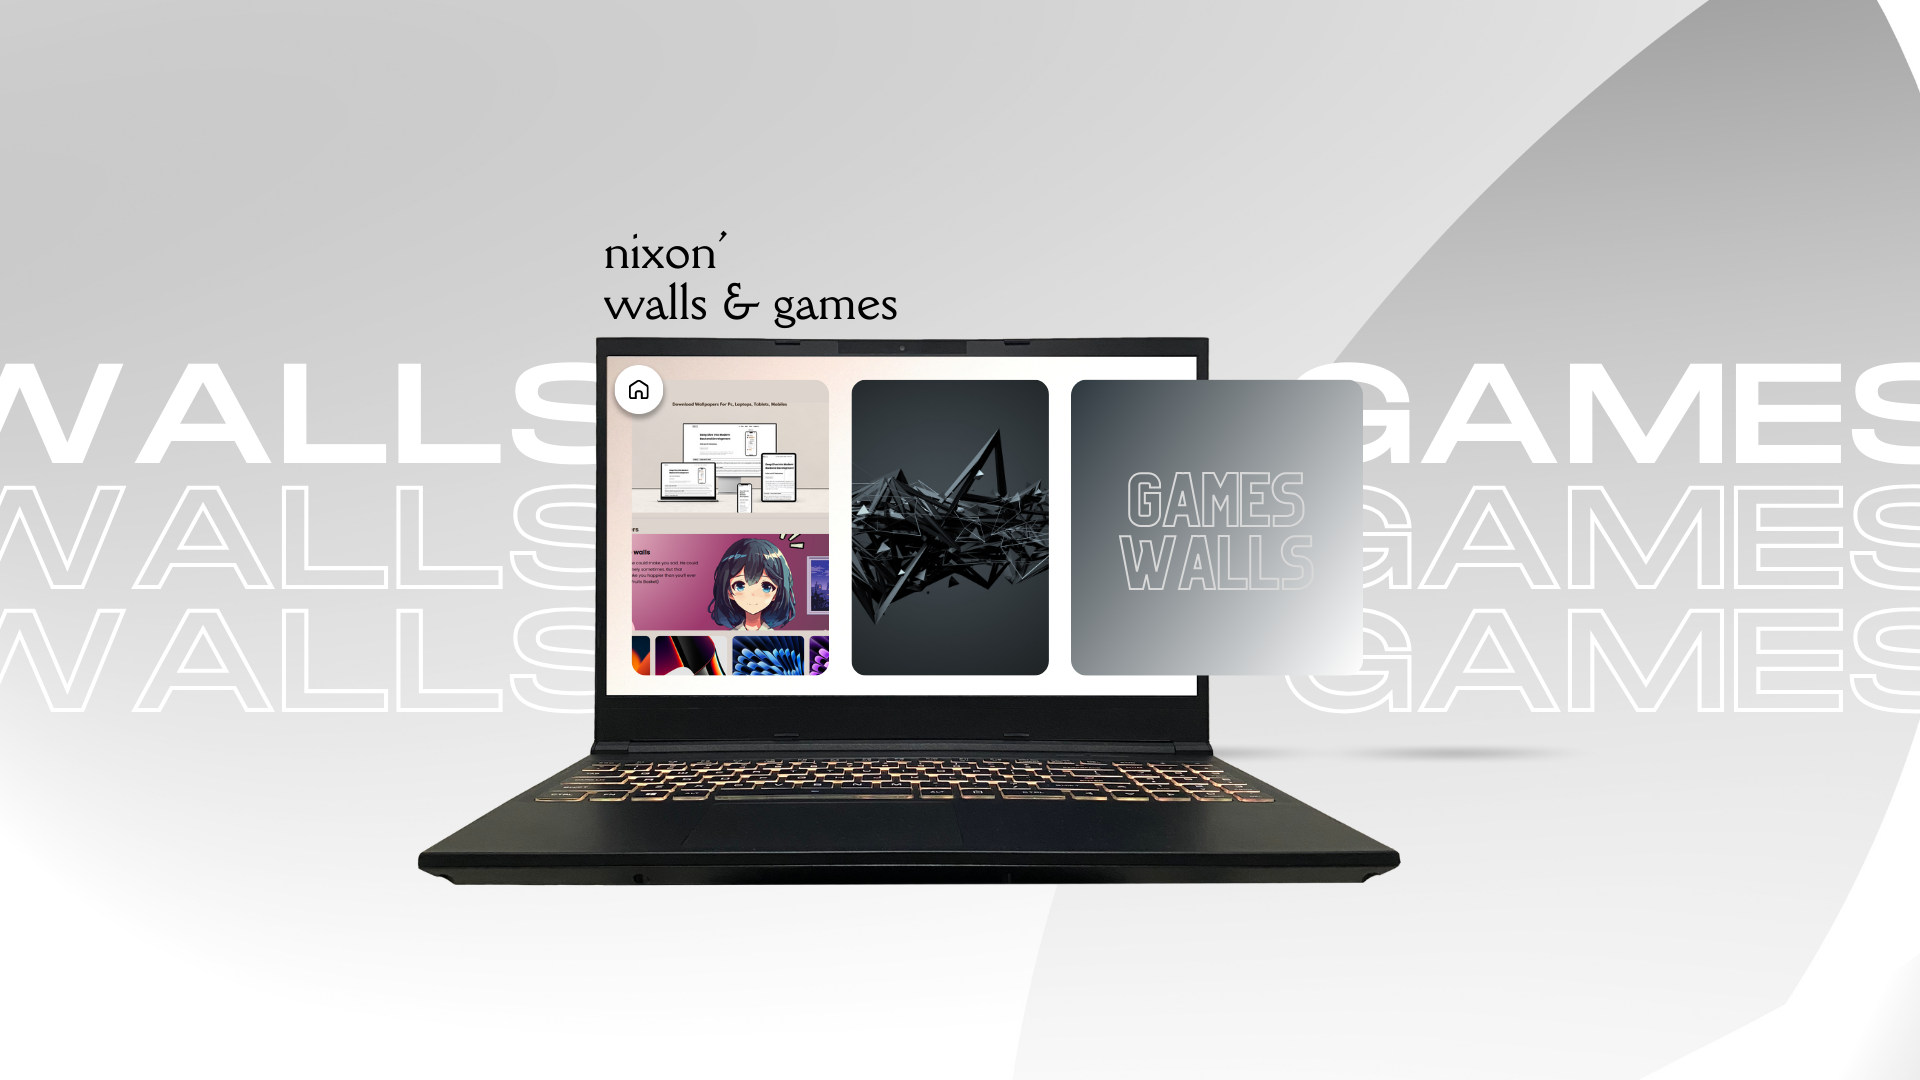
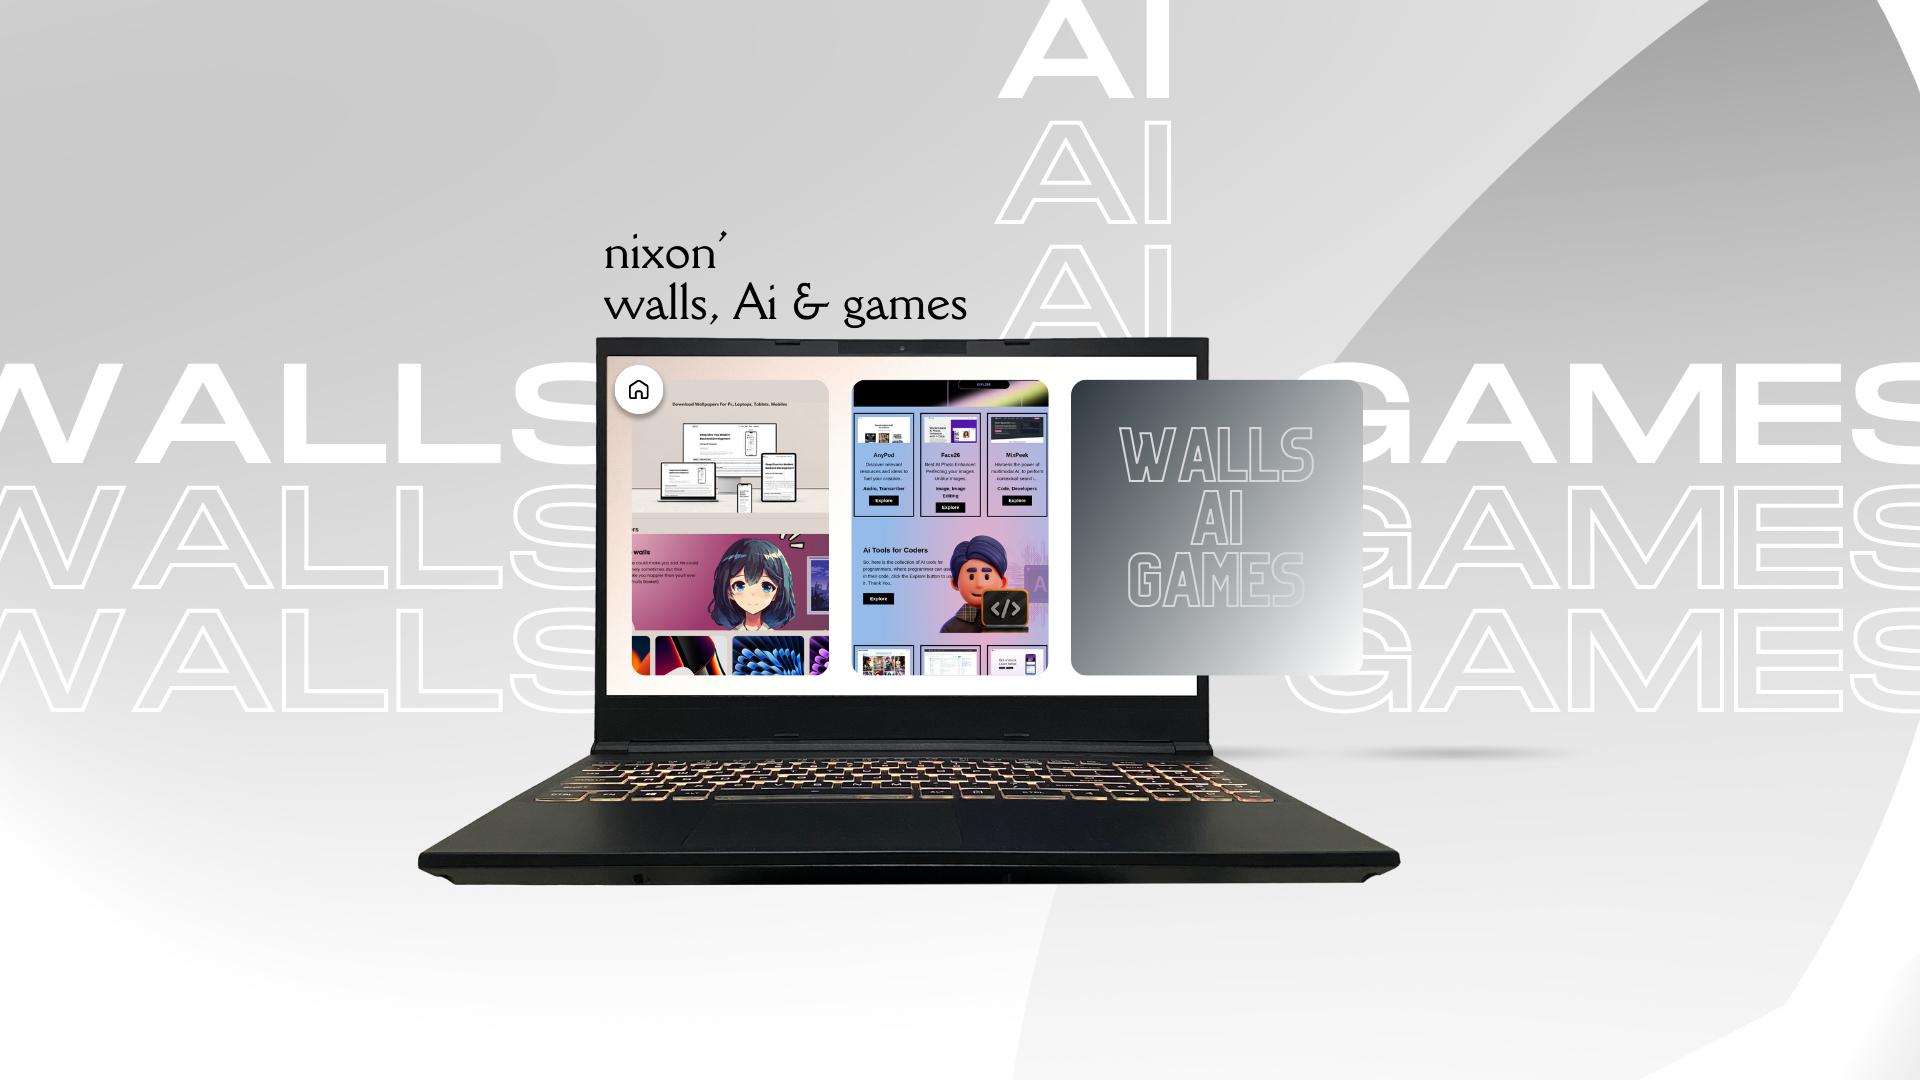
adding nixon ai

diff --git a/nixon-ai.html b/nixon-ai.html
@@ -5,7 +5,7 @@
     <meta name="viewport" content="width=device-width, initial-scale=1.0">
     <title>nixon Ai</title>
     <link rel="stylesheet" href="https://cdn.jsdelivr.net/npm/bootstrap-icons@1.8.3/font/bootstrap-icons.css">
-    <link rel="stylesheet" href="nixon-ai.css">
+    <link rel="stylesheet" href="nixon-ai4coders.css">
 </head>
 <body>
     <div class="container">
@@ -27,8 +27,8 @@
         <!-- Home cards 1 -->
         <section class="home-cards">
           <div class="box1">
-            <img src="Screenshot from 2023-09-16 11-31-14.png" alt="">
-            <h3>Any Pod</h3>
+            <img src="https://d1muf25xaso8hp.cloudfront.net/https%3A%2F%2F9983eb559ade06c789b2f13398696d74.cdn.bubble.io%2Ff1684149967898x909052529045196300%2FAnyPod%2520img.jpg?w=768&h=384&auto=compress&dpr=1&fit=max" alt="">
+            <h3>AnyPod</h3>
             <p>
                 Discover relevant resources and ideas to fuel your creative... 
             </p>
@@ -38,35 +38,35 @@
           </div>
 
           <div class="box2">
-            <img src="https://i.ibb.co/KjGFHVJ/card2.png" alt="" />
+            <img src="https://d1muf25xaso8hp.cloudfront.net/https%3A%2F%2F9983eb559ade06c789b2f13398696d74.cdn.bubble.io%2Ff1684139177468x115268665824216130%2FFace26%2520img.jpg?w=768&h=384&auto=compress&dpr=1&fit=max" alt="" />
             <h3>Face26</h3>
             <p>
             Best AI Photo Enhancer: Perfecting your images. Unblur Images. 
             </p>
             <p id="details">Image, Image Editing</p>
 
-            <a href="#">Explore<i class="fas fa-chevron-right"></i></a>
+            <a href="https://face26.com">Explore<i class="fas fa-chevron-right"></i></a>
           </div>
           
           <div class="box3">
-            <img src="https://i.ibb.co/2cnshH6/card3.png" alt="" />
+            <img src="https://d1muf25xaso8hp.cloudfront.net/https%3A%2F%2F9983eb559ade06c789b2f13398696d74.cdn.bubble.io%2Ff1684474238959x416918143858840300%2FMixPeek%2520img.jpg?w=768&h=384&auto=compress&dpr=1&fit=max" alt="" />
             <h3>MixPeek</h3>
             <p>
                 Harness the power of multimodal AI, to perform contextual search...
             </p>
             <p id="details">Code, Developers</p>
-            <a href="#">Explore <i class="fas fa-chevron-right"></i></a>
+            <a href="https://mixpeek.com/">Explore <i class="fas fa-chevron-right"></i></a>
           </div>
 
           <div class="box4">
-            <img src="https://i.ibb.co/G57P0Pb/card4.png" alt="" />
+            <img src="https://d1muf25xaso8hp.cloudfront.net/https%3A%2F%2F9983eb559ade06c789b2f13398696d74.cdn.bubble.io%2Ff1684143739702x256337045527856420%2Fdeciphr.ai%2520img.jpg?w=768&h=384&auto=compress&dpr=1&fit=max" alt="" />
             <h3>Deciphr Ai</h3>
             <p>
                 AI-powered transcription for podcasts and audio recordings.
             </p>
             <p id="details">Text, Summarizer</p>
 
-            <a href="#">Explore<i class="fas fa-chevron-right"></i></a>
+            <a href="https://www.deciphr.ai/">Explore<i class="fas fa-chevron-right"></i></a>
           </div>
         </section>
     
@@ -89,128 +89,128 @@
             </p>
             <p id="details">Image, Art</p>
 
-            <a href="https://civitai.com/">Explore<i class="fas fa-chevron-right"></i></a>
+            <a href="https://civitai.com">Explore<i class="fas fa-chevron-right"></i></a>
           </div>
 
           <div class="box2">
-            <img src="https://i.ibb.co/KjGFHVJ/card2.png" alt="" />
+            <img src="https://d1muf25xaso8hp.cloudfront.net/https%3A%2F%2F9983eb559ade06c789b2f13398696d74.cdn.bubble.io%2Ff1684148002617x876279026024373600%2FBraveGPT%2520img.jpg?w=768&h=384&auto=compress&dpr=1&fit=max" alt="" />
             <h3>BraveGPT</h3>
             <p>
               BraveGPT now offers an add-on that integrates ChatGPT's magic into its search results.
             </p>
             <p id="details">Search Engine</p>
 
-            <a href="#">Explore<i class="fas fa-chevron-right"></i></a>
+            <a href="https://github.com/kudoai/bravegpt">Explore<i class="fas fa-chevron-right"></i></a>
           </div>
           
           <div class="box3">
-            <img src="https://i.ibb.co/2cnshH6/card3.png" alt="" />
+            <img src="https://d1muf25xaso8hp.cloudfront.net/https%3A%2F%2F9983eb559ade06c789b2f13398696d74.cdn.bubble.io%2Ff1684070158000x845100604848732400%2FSocratic%2520by%2520Google%2520img.jpg?w=768&h=384&auto=compress&dpr=1&fit=max" alt="" />
             <h3>Socratic</h3>
             <p>
               Socratic by Google is an AI tool that helps students get unstuck in their academic problems.
             </p>
             <p id="details">Academic</p>
-            <a href="#">Explore <i class="fas fa-chevron-right"></i></a>
+            <a href="https://socratic.org">Explore <i class="fas fa-chevron-right"></i></a>
           </div>
 
           <div class="box4">
-            <img src="https://i.ibb.co/G57P0Pb/card4.png" alt="" />
-            <h3>Seacholic</h3>
+            <img src="https://d1muf25xaso8hp.cloudfront.net/https%3A%2F%2F9983eb559ade06c789b2f13398696d74.cdn.bubble.io%2Ff1684069285490x517977944361906370%2FTalk%2520To%2520Books%2520img.jpg?w=768&h=384&auto=compress&dpr=1&fit=max" alt="" />
+            <h3>Talk To Books</h3>
             <p>
-              Searcholic is the unparalleled AI-driven search engine for eBooks and documents! 
+              Talk to Books is a large collection of books. Discover the books using AI
             </p>
             <p id="details">eBooks</p>
 
-            <a href="#">Explore<i class="fas fa-chevron-right"></i></a>
+            <a href="https://books.google.com/talktobooks/">Explore<i class="fas fa-chevron-right"></i></a>
           </div>
 
           <div class="box4">
-            <img src="https://i.ibb.co/G57P0Pb/card4.png" alt="" />
+            <img src="https://d1muf25xaso8hp.cloudfront.net/https%3A%2F%2F9983eb559ade06c789b2f13398696d74.cdn.bubble.io%2Ff1684142833156x949052812242967500%2FHeybot%2520img.jpg?w=768&h=384&auto=compress&dpr=1&fit=max" alt="" />
             <h3>Heybot</h3>
             <p>
               Transform your website into an interactive and engaging chatbot with Heybot's.
             </p>
-            <p id="details">eBooks</p>
+            <p id="details">Productivity</p>
 
             <a href="https://heybot.thesamur.ai/">Explore<i class="fas fa-chevron-right"></i></a>
           </div>
 
           <div class="box4">
-            <img src="https://i.ibb.co/G57P0Pb/card4.png" alt="" />
+            <img src="https://d1muf25xaso8hp.cloudfront.net/https%3A%2F%2F9983eb559ade06c789b2f13398696d74.cdn.bubble.io%2Ff1684149931214x558305524318238460%2FMerlin%2520img.jpg?w=384&h=192&auto=compress&dpr=1&fit=max" alt="" />
             <h3>Merlin</h3>
             <p>
               Merlin offers AI-based writing and editing assistance on any website.
             </p>
-            <p id="details">eBooks</p>
+            <p id="details">Productivity</p>
 
             <a href="https://merlin.foyer.work/">Explore<i class="fas fa-chevron-right"></i></a>
           </div>
 
           <div class="box4">
-            <img src="https://i.ibb.co/G57P0Pb/card4.png" alt="" />
+            <img src="https://d1muf25xaso8hp.cloudfront.net/https%3A%2F%2F9983eb559ade06c789b2f13398696d74.cdn.bubble.io%2Ff1684149645209x583920341609170000%2FAnimated%2520Drawings%2520img.jpg?w=768&h=384&auto=compress&dpr=1&fit=max" alt="" />
             <h3>
               Animated Drawings</h3>
             <p>
               Bring your child's drawings to life with AI-powered Animated Drawings.
             </p>
-            <p id="details">eBooks</p>
+            <p id="details">Image, Art</p>
 
             <a href="https://sketch.metademolab.com/">Explore<i class="fas fa-chevron-right"></i></a>
           </div>
 
           <div class="box4">
-            <img src="https://i.ibb.co/G57P0Pb/card4.png" alt="" />
-            <h3>Seacholic</h3>
+            <img src="https://d1muf25xaso8hp.cloudfront.net/https%3A%2F%2F9983eb559ade06c789b2f13398696d74.cdn.bubble.io%2Ff1685012631136x940663269259604600%2FPixelhunter%2520img.jpg?w=768&h=384&auto=compress&dpr=1&fit=max" alt="" />
+            <h3>Pixelhunter</h3>
             <p>
-              Searcholic is the unparalleled AI-driven search engine for eBooks and documents! 
+              An AI image resizer designed to simplify the task of cropping images for social media.
             </p>
-            <p id="details">eBooks</p>
+            <p id="details">Image</p>
 
-            <a href="#">Explore<i class="fas fa-chevron-right"></i></a>
+            <a href="https://pixelhunter.io/">Explore<i class="fas fa-chevron-right"></i></a>
           </div>
 
           <div class="box4">
-            <img src="https://i.ibb.co/G57P0Pb/card4.png" alt="" />
+            <img src="https://d1muf25xaso8hp.cloudfront.net/https%3A%2F%2F9983eb559ade06c789b2f13398696d74.cdn.bubble.io%2Ff1684145802184x241054037442944840%2FAI%2520Named%2520My%2520Pet%2520img.jpg?w=768&h=384&auto=compress&dpr=1&fit=max" alt="" />
             <h3>AI Named My Pet</h3>
             <p>
               Allow AI Named My Pet to find the perfect name for your furry friend.
             </p>
-            <p id="details">eBooks</p>
+            <p id="details">Pet tool</p>
 
             <a href="https://www.ainamedmypet.com/">Explore<i class="fas fa-chevron-right"></i></a>
           </div>
 
           <div class="box4">
-            <img src="https://i.ibb.co/G57P0Pb/card4.png" alt="" />
+            <img src="https://d1muf25xaso8hp.cloudfront.net/https%3A%2F%2F9983eb559ade06c789b2f13398696d74.cdn.bubble.io%2Ff1684070261613x903521733073570800%2FAdobe%2520Podcast%2520img.jpg?w=768&h=384&auto=compress&dpr=1&fit=max" alt="" />
             <h3>Adobe Podcast</h3>
             <p>
               Effortlessly record and edit audio with AI-powered free quick tools
             </p>
-            <p id="details">eBooks</p>
+            <p id="details">Audio</p>
 
             <a href="https://podcast.adobe.com/">Explore<i class="fas fa-chevron-right"></i></a>
           </div>
 
           <div class="box4">
-            <img src="https://i.ibb.co/G57P0Pb/card4.png" alt="" />
+            <img src="https://d1muf25xaso8hp.cloudfront.net/https%3A%2F%2F9983eb559ade06c789b2f13398696d74.cdn.bubble.io%2Ff1684148875754x636136526362243100%2FMagic%2520Copy%2520img.jpg?w=768&h=384&auto=compress&dpr=1&fit=max" alt="" />
             <h3>Magic Copy</h3>
             <p>
               Easily extract foreground objects from images using an AI Chrome extension. 
             </p>
-            <p id="details">eBooks</p>
+            <p id="details">Image</p>
 
             <a href="https://github.com/kevmo314/magic-copy">Explore<i class="fas fa-chevron-right"></i></a>
           </div>
 
           <div class="box4">
-            <img src="https://i.ibb.co/G57P0Pb/card4.png" alt="" />
+            <img src="https://d1muf25xaso8hp.cloudfront.net/https%3A%2F%2F9983eb559ade06c789b2f13398696d74.cdn.bubble.io%2Ff1684144300769x197591253112412220%2Fquickie.ai%2520img.jpg?w=768&h=384&auto=compress&dpr=1&fit=max" alt="" />
             <h3>Quickie</h3>
             <p>
               Achieve greater efficiency with contextual AI shortcuts for accelerated productivity.
             </p>
-            <p id="details">eBooks</p>
+            <p id="details">Business</p>
 
-            <a href="#">Explore<i class="fas fa-chevron-right"></i></a>
+            <a href="https://bubble.io/domain_not_supported?domain=quickie.ai">Explore<i class="fas fa-chevron-right"></i></a>
           </div>
         </section>
           
@@ -232,7 +232,7 @@
           <ul>
               <li><a href="#header">Home</a></li>
               <li><a href="#header">Overview</a></li>
-              <li><a href="mailto:yusufali7284@gmail.com?subject=RegardingNixon&body=HeyNixon">Contact Us</a></li>
+              <li><a href="mailto:yusufali7284@gmail.com?subject=RegardingNixon&body=Nixon,">Contact Us</a></li>
           </ul>
           <p>&copy 2023 India, Inc. All rights reserved</p>
       </footer>

diff --git a/index.html b/index.html
@@ -21,7 +21,7 @@
                         <li><a href="faq.html"><span></span><span></span><span></span> FAQs</a></li>
                         <li><a href="about.html"><span></span><span></span><span></span> About</a></li>
                         <li><a href="extras.html"><span></span><span></span><span></span> Extras</a></li>
-                        <li><a href="#mailto:yusufali7284@gmail.com?subject=RegardingNixon&body=HeyNixon"><span></span><span></span><span></span> Contact Us</a></li>
+                        <li><a href="mailto:yusufali7284@gmail.com?subject=RegardingNixon&body=HeyNixon"><span></span><span></span><span></span> Contact Us</a></li>
                     </ul>
                     <i class="bi bi-list" id="menu_btn"></i>
                 </div>
